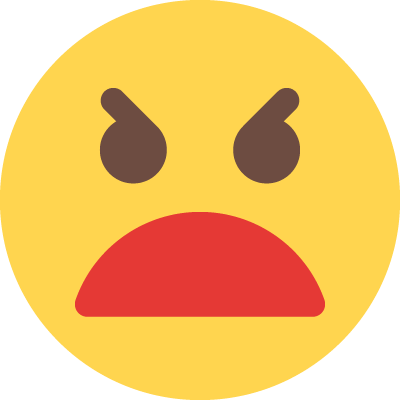
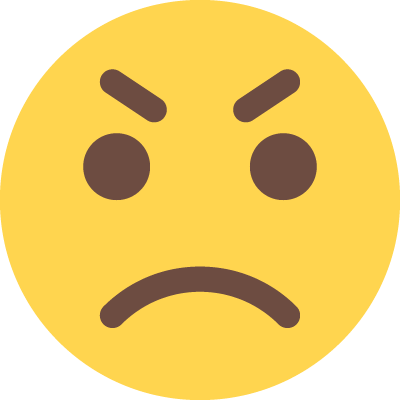
removes very angry emoji and replaces with less-angry/neural emoji, linting

Changed region(s): [[0.18, 0.51, 0.81, 0.84], [0.57, 0.15, 0.81, 0.51], [0.21, 0.15, 0.42, 0.51]]

diff --git a/src/components/ScoreScreen/index.js b/src/components/ScoreScreen/index.js
@@ -40,7 +40,7 @@ const ScoreScreen = ({
                   </h3>
                   <div className="feedback-counter-outer">
                     <FeedbackCounter mood="angry" customerFeedback={customerFeedback} />
-                    <FeedbackCounter mood="neutral" customerFeedback={customerFeedback} />
+                    {/* <FeedbackCounter mood="neutral" customerFeedback={customerFeedback} /> */}
                     <FeedbackCounter mood="happy" customerFeedback={customerFeedback} />
                   </div>
                 </Col>

diff --git a/gatsby-config.js b/gatsby-config.js
@@ -9,9 +9,6 @@ module.exports = {
     description: 'Science Museum of Minnesota exhibit template',
     title: 'app-template',
   },
-  flags: {
-	DEV_SSR: false,
-  },
   plugins: [
     'gatsby-plugin-sharp',
     'gatsby-transformer-sharp',
@@ -43,7 +40,7 @@ module.exports = {
         background_color: '#ffffff',
         theme_color: '#000000',
         display: 'minimal-ui',
-		icon: `${__dirname}/src/images/angry.png`,
+        icon: `${__dirname}/src/images/angry.png`,
       },
     },
   ],
